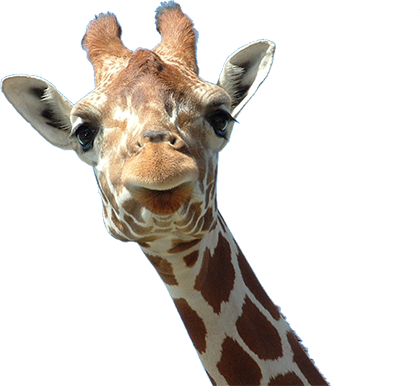
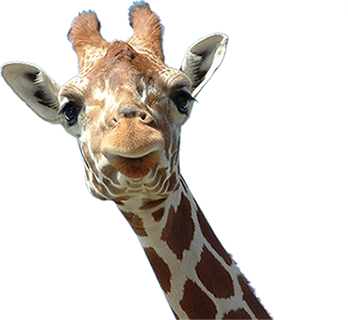
changing sizes of images

diff --git a/css/style.css b/css/style.css
@@ -1,2 +1,2 @@
-.bodyMain{font:100% "Open Sans";color:#fff;background-color:#C9009C}.mainHeader{display:flex}.mainHeader-logo{margin:auto;padding-top:90px;padding-bottom:50px}.introSection,.startButtonSection{font-size:24px;display:flex;flex-direction:column;margin:auto}h2{margin:auto;font-size:14px}#yourText{margin:auto}.introSection p,.startButtonSection p{margin:auto;text-align:center}.introSection-paragraph{margin:auto;text-align:center}.startButtonSection-button,.nextButtonSection-button,.shareButtonSection-button,.shareButtonSection-button--lightgreen,.shareButtonSection-button--darkgreen,.shareButtonSection-button--yellow,.shareButtonSection-button--red{margin:auto;margin-top:70px;padding:25px 50px;font-size:24px;color:#fff;background-color:#7F266C;border-radius:5px;border:0;box-shadow:0 8px 16px 0 rgba(0,0,0,0.2),0 6px 20px 0 rgba(0,0,0,0.19)}.startButtonSection-button:hover,.nextButtonSection-button:hover,.shareButtonSection-button:hover,.shareButtonSection-button--lightgreen:hover,.shareButtonSection-button--darkgreen:hover,.shareButtonSection-button--yellow:hover,.shareButtonSection-button--red:hover{box-shadow:0 12px 16px 0 rgba(0,0,0,0.24),0 17px 50px 0 rgba(0,0,0,0.19)}.bodyQuestion{background-color:#FF6E00;color:#fff;font:100% "Open Sans";text-align:center;font-size:30px}.nextButtonSection-button{margin:auto;margin-top:70px;padding:25px 50px;font-size:24px;color:#fff;background-color:#7F266C;border-radius:5px;border:0;box-shadow:0 8px 16px 0 rgba(0,0,0,0.2),0 6px 20px 0 rgba(0,0,0,0.19);background-color:#FFA91F;margin-bottom:50px}.questionHeader,.resultsHeader{display:flex;justify-content:flex-start;margin:10px}.bodyQuestion p{font-weight:bold;margin-bottom:10px}.bounceOut{animation-delay:2s}.nextButtonSection-alert{padding:20px;background-color:#f44336;color:white}.closebtn{margin-left:15px;color:white;font-weight:bold;float:right;font-size:22px;line-height:20px;cursor:pointer;transition:0.3s}.closebtn:hover{color:black}#nextButtonSection-paragraph{display:none;margin-top:50px}#nextButtonSection-paragraph p{font-size:50%}.bodyResults,.resultsfiveBody,.resultsfourBody,.resultsthreeBody,.resultstwoBody{background-color:#0FCBBF;color:#fff;font:100% "Open Sans";text-align:center;font-size:20px}.resultsfiveBody{background-color:#B4F205}.resultsfourBody{background-color:#00CB3B}.resultsthreeBody{background-color:#FFB800}.resultstwoBody{background-color:#FF0031}.resultsHeader{margin:10px}.shareButtonSection-button,.shareButtonSection-button--lightgreen,.shareButtonSection-button--darkgreen,.shareButtonSection-button--yellow,.shareButtonSection-button--red{background-color:#0A8A82;margin-top:30px;margin-bottom:50px;font-size:20px}.shareButtonSection-button--lightgreen{background-color:#7BA603}.shareButtonSection-button--darkgreen{background-color:#007F25}.shareButtonSection-button--yellow{background-color:#FF8700}.shareButtonSection-button--red{background-color:#A60020}.resultsHeading{font-size:32px;font-weight:bold}.resultsParagraph{margin-top:30px}.animatedMice{display:flex;flex-direction:row;justify-content:center}.animatedMice-one{padding:20px;margin-bottom:50px;-webkit-animation:jump 1s infinite;animation:jump 1s infinite}@keyframes jump{0%{transform:translateY(-20px)}50%{transform:translateY(50px)}100%{transform:translateY(-20px)}}.animatedMice-two{padding:20px;margin-bottom:50px;-webkit-animation:jump 1s infinite;animation:jump 1s infinite;animation-delay:0.15s}@keyframes jump{0%{transform:translateY(-20px)}50%{transform:translateY(50px)}100%{transform:translateY(-20px)}}.animatedMice-three{padding:20px;margin-bottom:50px;-webkit-animation:jump 1s infinite;animation:jump 1s infinite;animation-delay:0.3s}@keyframes jump{0%{transform:translateY(-20px)}50%{transform:translateY(50px)}100%{transform:translateY(-20px)}}.animatedMice-four{padding:20px;margin-bottom:50px;-webkit-animation:jump 1s infinite;animation:jump 1s infinite;animation-delay:0.45s}@keyframes jump{0%{transform:translateY(-20px)}50%{transform:translateY(50px)}100%{transform:translateY(-20px)}}.animatedMice-five{padding:20px;margin-bottom:50px;-webkit-animation:jump 1s infinite;animation:jump 1s infinite;animation-delay:0.6s}@keyframes jump{0%{transform:translateY(-20px)}50%{transform:translateY(50px)}100%{transform:translateY(-20px)}}.animatedMice-six{padding:20px;margin-bottom:50px;-webkit-animation:jump 1s infinite;animation:jump 1s infinite;animation-delay:0.75s}@keyframes jump{0%{transform:translateY(-20px)}50%{transform:translateY(50px)}100%{transform:translateY(-20px)}}.animatedMice-seven{padding:20px;margin-bottom:50px;-webkit-animation:jump 1s infinite;animation:jump 1s infinite;animation-delay:0.9s}@keyframes jump{0%{transform:translateY(-20px)}50%{transform:translateY(50px)}100%{transform:translateY(-20px)}}.animatedMice-eight{padding:20px;margin-bottom:50px;-webkit-animation:jump 1s infinite;animation:jump 1s infinite;animation-delay:1.05s}@keyframes jump{0%{transform:translateY(-20px)}50%{transform:translateY(50px)}100%{transform:translateY(-20px)}}.animatedMice-nine{padding:20px;margin-bottom:50px;-webkit-animation:jump 1s infinite;animation:jump 1s infinite;animation-delay:1.2s}@keyframes jump{0%{transform:translateY(-20px)}50%{transform:translateY(50px)}100%{transform:translateY(-20px)}}.animatedMice-ten{padding:20px;margin-bottom:50px;-webkit-animation:jump 1s infinite;animation:jump 1s infinite;animation-delay:1.35s}@keyframes jump{0%{transform:translateY(-20px)}50%{transform:translateY(50px)}100%{transform:translateY(-20px)}}input{margin-bottom:30px}h1{font-size:35px;margin-bottom:20px}
+.bodyMain{font:100% "Open Sans";color:#fff;background-color:#C9009C}.mainHeader{display:flex}.mainHeader-logo{margin:auto;padding-top:90px;padding-bottom:50px}.introSection,.startButtonSection{font-size:24px;display:flex;flex-direction:column;margin:auto}h2{margin:auto;font-size:14px}#yourText{margin:auto}.introSection p,.startButtonSection p{margin:auto;text-align:center}.introSection-paragraph{margin:auto;text-align:center}.startButtonSection-button,.nextButtonSection-button,.shareButtonSection-button,.shareButtonSection-button--lightgreen,.shareButtonSection-button--darkgreen,.shareButtonSection-button--yellow,.shareButtonSection-button--red{margin:auto;margin-top:70px;padding:15px 25px;font-size:24px;color:#fff;background-color:#7F266C;border-radius:5px;border:0;box-shadow:0 8px 16px 0 rgba(0,0,0,0.2),0 6px 20px 0 rgba(0,0,0,0.19)}.startButtonSection-button:hover,.nextButtonSection-button:hover,.shareButtonSection-button:hover,.shareButtonSection-button--lightgreen:hover,.shareButtonSection-button--darkgreen:hover,.shareButtonSection-button--yellow:hover,.shareButtonSection-button--red:hover{box-shadow:0 12px 16px 0 rgba(0,0,0,0.24),0 17px 50px 0 rgba(0,0,0,0.19)}.bodyQuestion{background-color:#FF6E00;color:#fff;font:100% "Open Sans";text-align:center;font-size:30px}.nextButtonSection-button{margin:auto;margin-top:70px;padding:25px 50px;font-size:24px;color:#fff;background-color:#7F266C;border-radius:5px;border:0;box-shadow:0 8px 16px 0 rgba(0,0,0,0.2),0 6px 20px 0 rgba(0,0,0,0.19);background-color:#FFA91F;margin-bottom:50px}.questionHeader,.resultsHeader{display:flex;justify-content:flex-start;margin:10px}.bodyQuestion p{font-weight:bold;margin-bottom:10px}.bounceOut{animation-delay:2s}.nextButtonSection-alert{padding:20px;background-color:#f44336;color:white}.closebtn{margin-left:15px;color:white;font-weight:bold;float:right;font-size:22px;line-height:20px;cursor:pointer;transition:0.3s}.closebtn:hover{color:black}#nextButtonSection-paragraph{display:none;margin-top:15px}#nextButtonSection-paragraph p{font-size:50%}.bodyResults,.resultsfiveBody,.resultsfourBody,.resultsthreeBody,.resultstwoBody{background-color:#0FCBBF;color:#fff;font:100% "Open Sans";text-align:center;font-size:20px}.resultsfiveBody{background-color:#B4F205}.resultsfourBody{background-color:#00CB3B}.resultsthreeBody{background-color:#FFB800}.resultstwoBody{background-color:#FF0031}.resultsHeader{margin:10px}.shareButtonSection-button,.shareButtonSection-button--lightgreen,.shareButtonSection-button--darkgreen,.shareButtonSection-button--yellow,.shareButtonSection-button--red{background-color:#0A8A82;margin-top:30px;margin-bottom:50px;font-size:20px}.shareButtonSection-button--lightgreen{background-color:#7BA603}.shareButtonSection-button--darkgreen{background-color:#007F25}.shareButtonSection-button--yellow{background-color:#FF8700}.shareButtonSection-button--red{background-color:#A60020}.resultsHeading{font-size:32px;font-weight:bold}.resultsParagraph{margin-top:30px}.animatedMice{display:flex;flex-direction:row;justify-content:center}.animatedMice-one{padding:20px;margin-bottom:50px;-webkit-animation:jump 1s infinite;animation:jump 1s infinite}@keyframes jump{0%{transform:translateY(-20px)}50%{transform:translateY(50px)}100%{transform:translateY(-20px)}}.animatedMice-two{padding:20px;margin-bottom:50px;-webkit-animation:jump 1s infinite;animation:jump 1s infinite;animation-delay:0.15s}@keyframes jump{0%{transform:translateY(-20px)}50%{transform:translateY(50px)}100%{transform:translateY(-20px)}}.animatedMice-three{padding:20px;margin-bottom:50px;-webkit-animation:jump 1s infinite;animation:jump 1s infinite;animation-delay:0.3s}@keyframes jump{0%{transform:translateY(-20px)}50%{transform:translateY(50px)}100%{transform:translateY(-20px)}}.animatedMice-four{padding:20px;margin-bottom:50px;-webkit-animation:jump 1s infinite;animation:jump 1s infinite;animation-delay:0.45s}@keyframes jump{0%{transform:translateY(-20px)}50%{transform:translateY(50px)}100%{transform:translateY(-20px)}}.animatedMice-five{padding:20px;margin-bottom:50px;-webkit-animation:jump 1s infinite;animation:jump 1s infinite;animation-delay:0.6s}@keyframes jump{0%{transform:translateY(-20px)}50%{transform:translateY(50px)}100%{transform:translateY(-20px)}}.animatedMice-six{padding:20px;margin-bottom:50px;-webkit-animation:jump 1s infinite;animation:jump 1s infinite;animation-delay:0.75s}@keyframes jump{0%{transform:translateY(-20px)}50%{transform:translateY(50px)}100%{transform:translateY(-20px)}}.animatedMice-seven{padding:20px;margin-bottom:50px;-webkit-animation:jump 1s infinite;animation:jump 1s infinite;animation-delay:0.9s}@keyframes jump{0%{transform:translateY(-20px)}50%{transform:translateY(50px)}100%{transform:translateY(-20px)}}.animatedMice-eight{padding:20px;margin-bottom:50px;-webkit-animation:jump 1s infinite;animation:jump 1s infinite;animation-delay:1.05s}@keyframes jump{0%{transform:translateY(-20px)}50%{transform:translateY(50px)}100%{transform:translateY(-20px)}}.animatedMice-nine{padding:20px;margin-bottom:50px;-webkit-animation:jump 1s infinite;animation:jump 1s infinite;animation-delay:1.2s}@keyframes jump{0%{transform:translateY(-20px)}50%{transform:translateY(50px)}100%{transform:translateY(-20px)}}.animatedMice-ten{padding:20px;margin-bottom:50px;-webkit-animation:jump 1s infinite;animation:jump 1s infinite;animation-delay:1.35s}@keyframes jump{0%{transform:translateY(-20px)}50%{transform:translateY(50px)}100%{transform:translateY(-20px)}}input{margin-bottom:30px}h1{font-size:30px;margin-bottom:20px}
 /*# sourceMappingURL=style.css.map */

diff --git a/sass/style.scss b/sass/style.scss
@@ -69,7 +69,7 @@ text-align: center;
 .startButtonSection-button {
   @include margin-auto;
   margin-top: 70px;
-  padding: 25px 50px;
+  padding: 15px 25px;
   font-size: $font-size;
   color: $text-color;
   background-color: #7F266C;
@@ -141,7 +141,7 @@ text-align: center;
 }
 #nextButtonSection-paragraph {
 display: none;
-margin-top: 50px;
+margin-top: 15px;
 }
 #nextButtonSection-paragraph p {
   font-size: 50%;
@@ -322,6 +322,6 @@ input {
   margin-bottom: 30px;
 }
 h1 {
-  font-size: 35px;
+  font-size: 30px;
   margin-bottom: 20px;
 }
